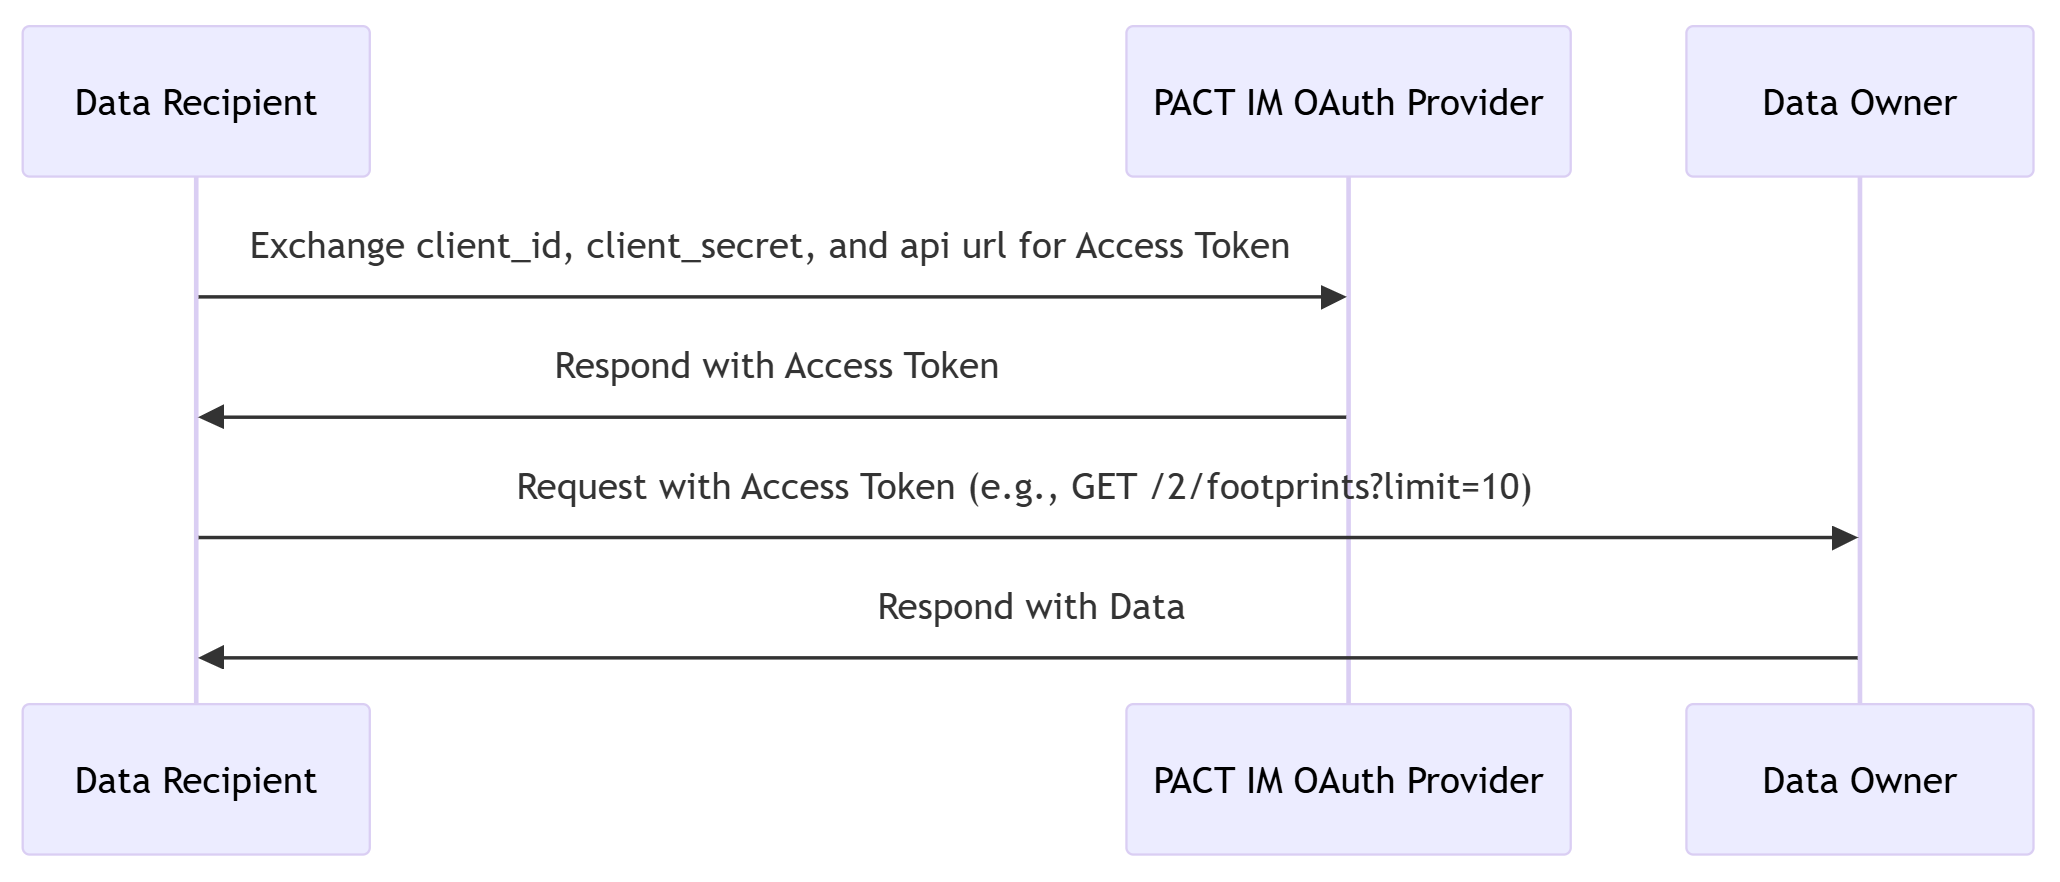
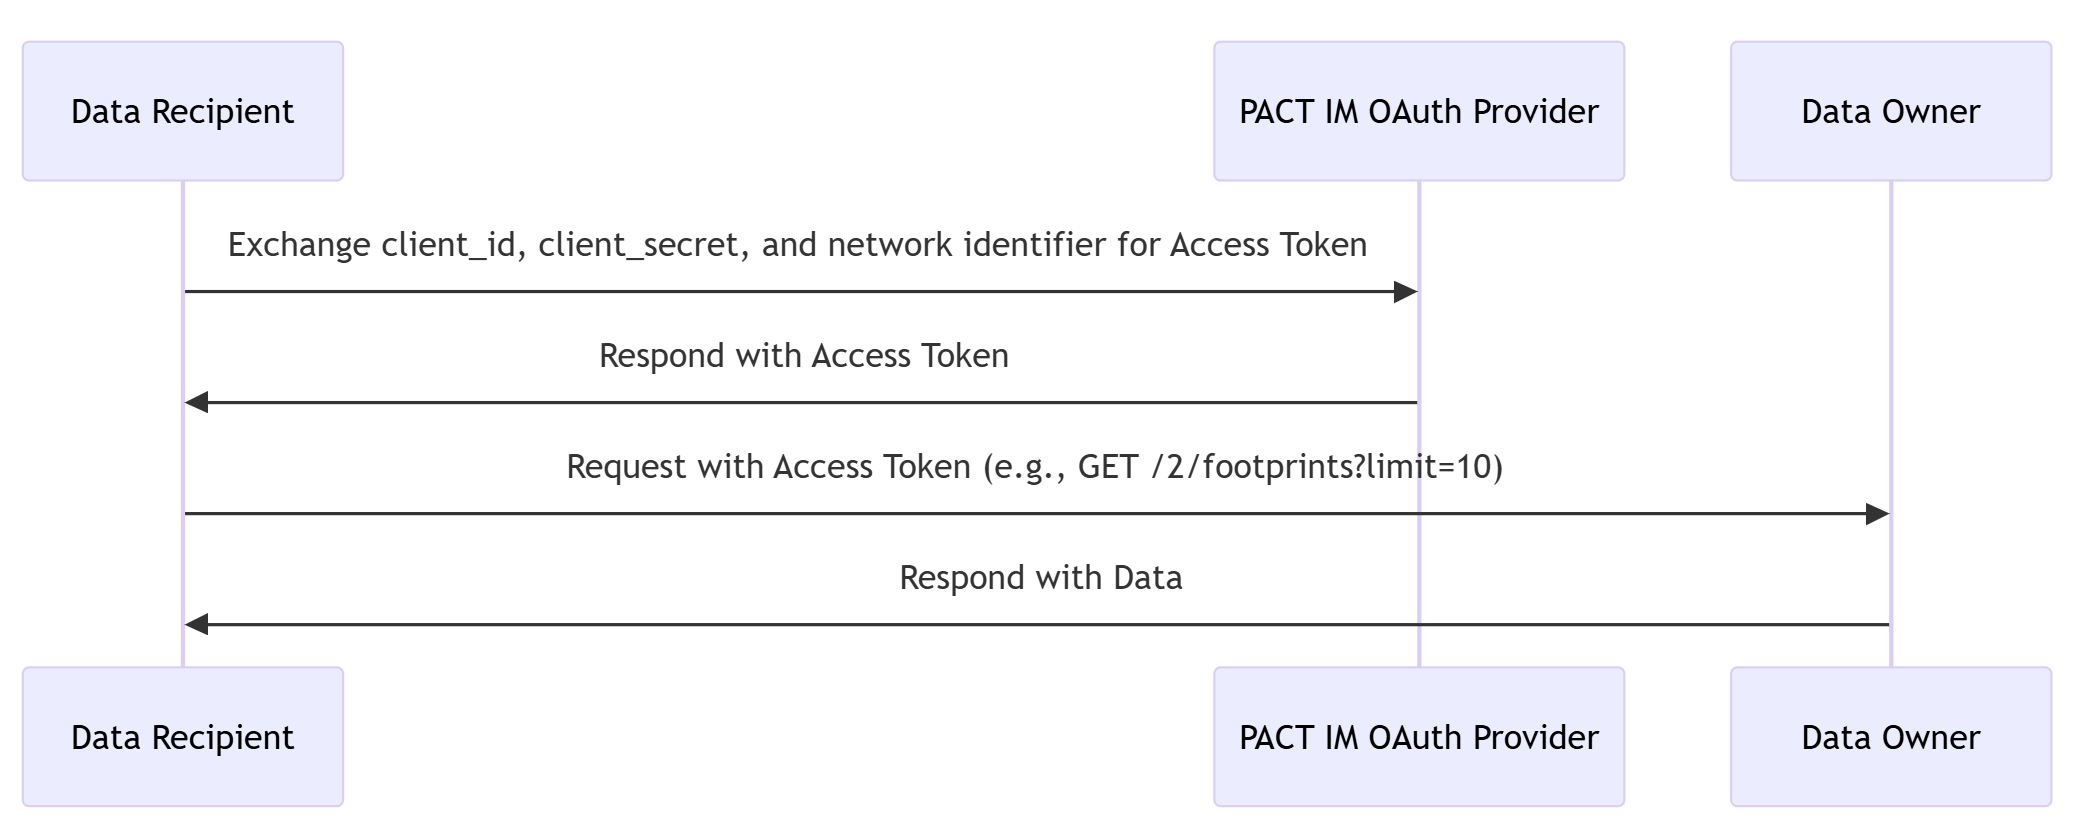
update diagrams

diff --git a/docs/diagrams.md b/docs/diagrams.md
@@ -20,7 +20,7 @@ sequenceDiagram
     participant OAuthProvider as PACT IM OAuth Provider
     participant API as Data Owner
 
-    Client->>OAuthProvider: Exchange client_id, client_secret, and api url for Access Token
+    Client->>OAuthProvider: Exchange client_id, client_secret, and network identifier for Access Token
     OAuthProvider->>Client: Respond with Access Token
 
     Client->>API: Request with Access Token (e.g., GET /2/footprints?limit=10)
@@ -35,7 +35,7 @@ sequenceDiagram
     participant OAuthProvider as PACT IM OAuth Provider
     participant API as Data Owner
 
-    Client->>OAuthProvider: Exchange client_id, client_secret, and api url for Access Token
+    Client->>OAuthProvider: Exchange client_id, client_secret, and network identifier for Access Token
     OAuthProvider->>Client: Respond with Access Token
 
     Client->>API: Request Create Event Action (e.g., POST /2/events)
